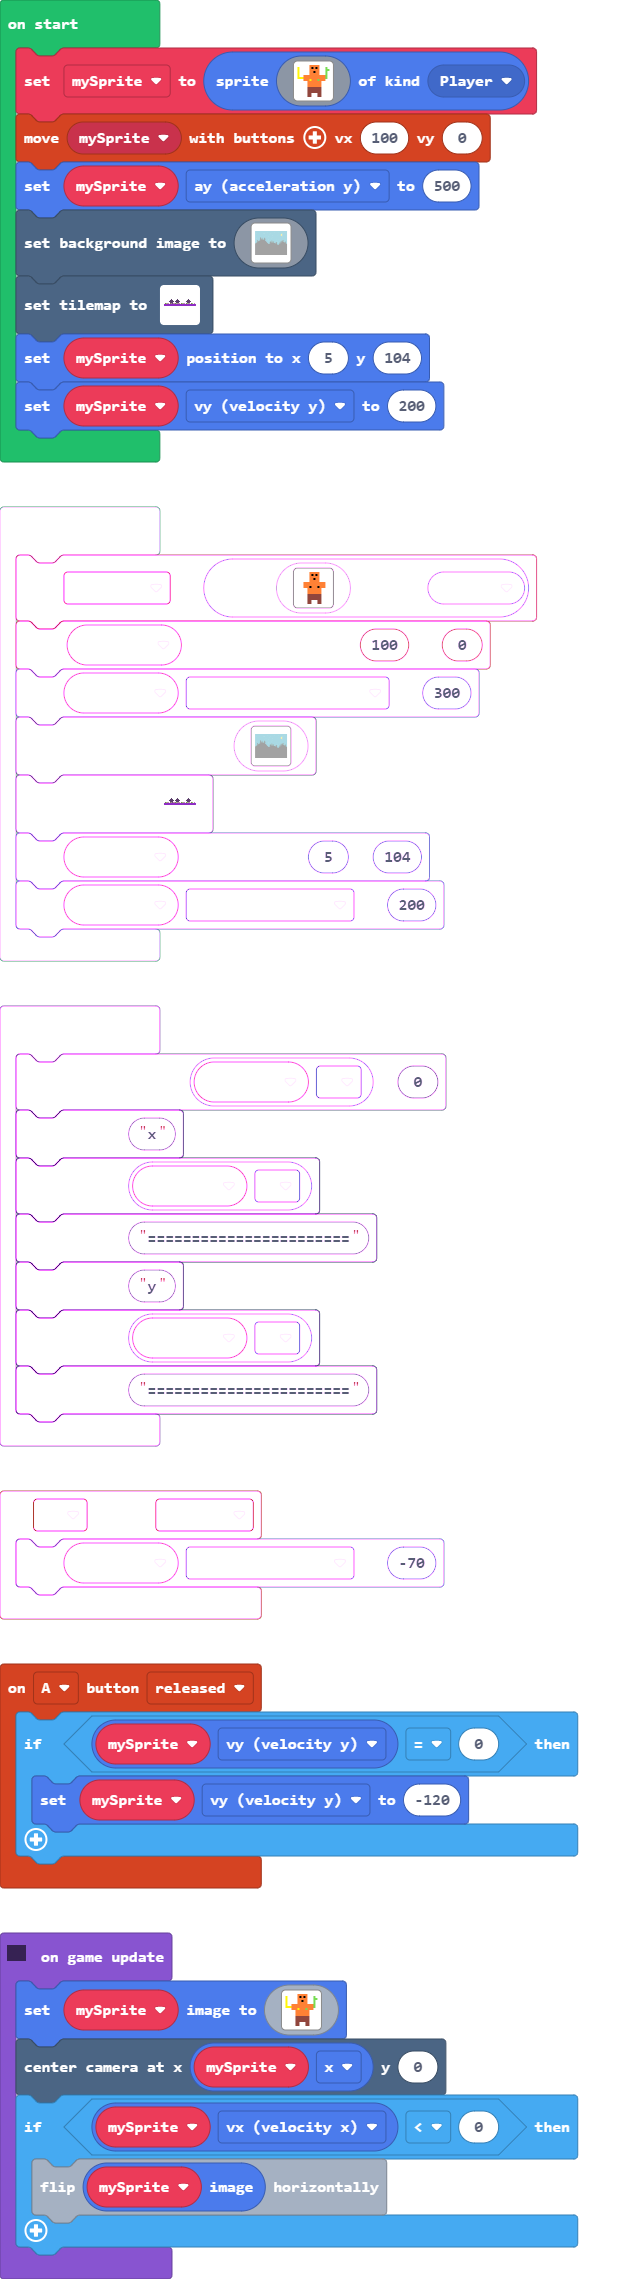
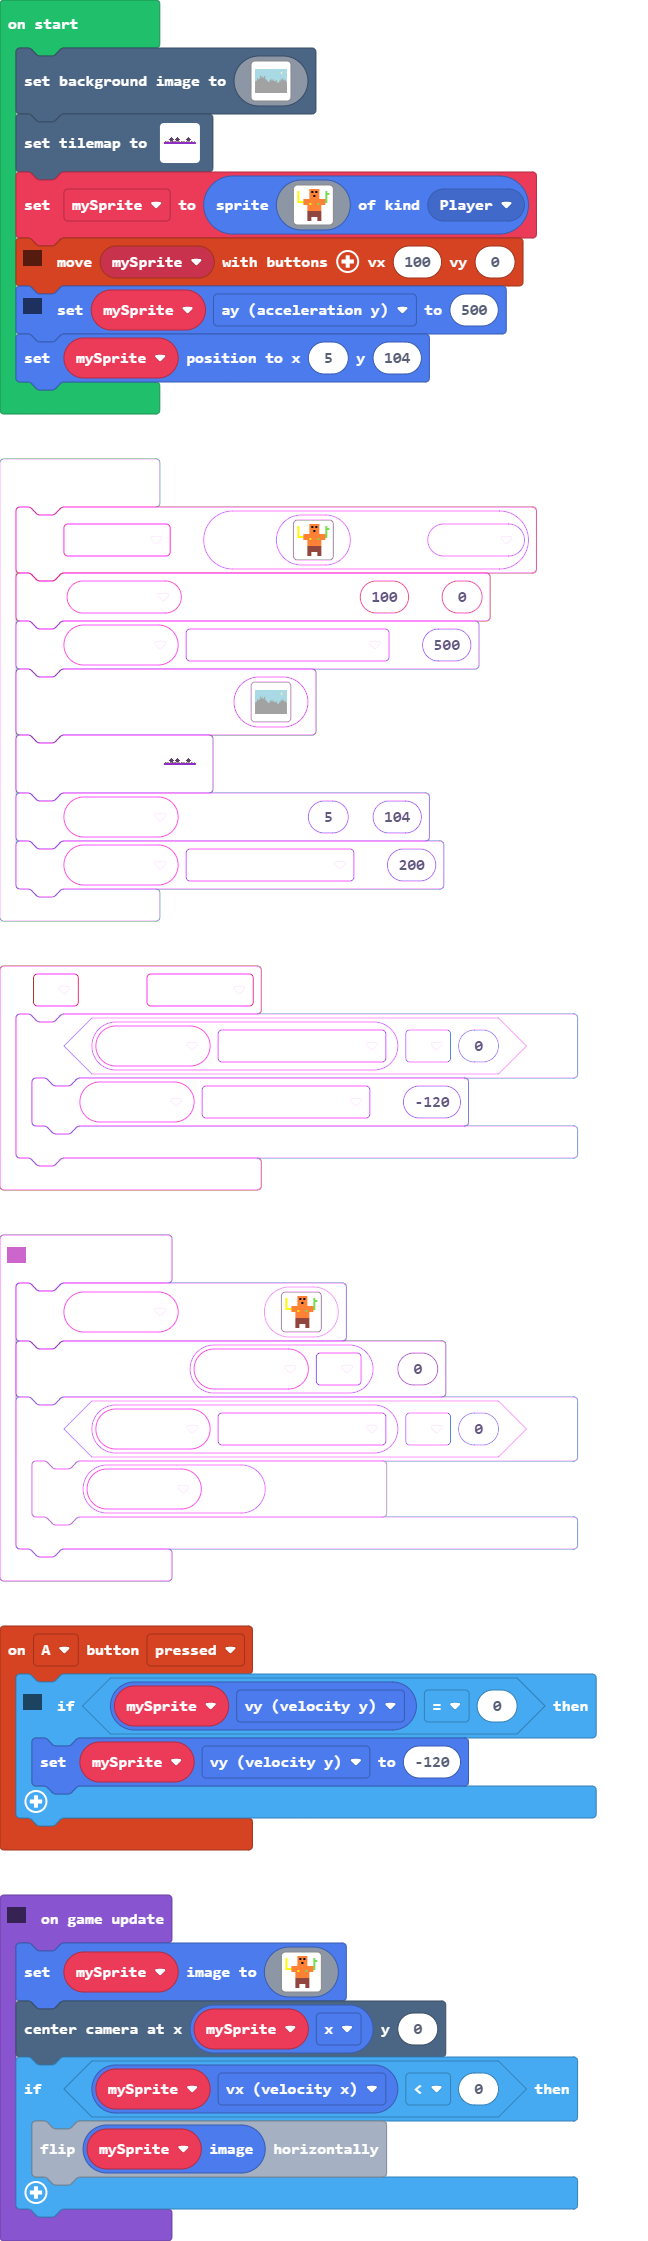
Update pxt.json, main.blocks, main.ts

Changed region(s): [[0.0, 0.0, 0.9349, 1.0]]

diff --git a/main.ts b/main.ts
@@ -1,29 +1,10 @@
-controller.A.onEvent(ControllerButtonEvent.Released, function () {
+controller.A.onEvent(ControllerButtonEvent.Pressed, function () {
+    // if character is stand on the platform or ground can jump
     if (mySprite.vy == 0) {
         mySprite.vy = -120
     }
 })
 let mySprite: Sprite = null
-mySprite = sprites.create(img`
-    . . . . . . 4 4 4 4 4 . . . . . 
-    5 . . . . . 4 f 4 f 4 . . . 7 . 
-    5 . . . . . 4 4 4 4 4 . . . 7 7 
-    5 . . . . . 4 4 f 4 4 . . . 7 . 
-    5 . . . . . 4 4 4 4 4 . . . 7 . 
-    5 . . 4 4 4 4 4 4 4 4 4 4 4 7 . 
-    5 5 5 4 4 4 4 4 4 4 4 4 4 4 7 . 
-    . . . 4 4 4 5 4 4 4 7 4 4 4 . . 
-    . . . . . 4 4 4 4 4 4 4 . . . . 
-    . . . . . 4 4 4 4 4 4 4 . . . . 
-    . . . . . 4 4 4 4 4 4 4 . . . . 
-    . . . . . e e e e e e e . . . . 
-    . . . . . e e e e e e e . . . . 
-    . . . . . e e e e e e e . . . . 
-    . . . . . e e . . . e e . . . . 
-    . . . . . e e . . . e e . . . . 
-    `, SpriteKind.Player)
-controller.moveSprite(mySprite, 100, 0)
-mySprite.ay = 500
 scene.setBackgroundImage(img`
     6666666666666666666666666666666666666666666666666666666666666666666666666666666666666666666666666666666666666666666666666666666666666666666666666666666666666666
     6666666666666666666666666666666666666666666666666666666666666666666666666666666666666666666666666666666666666666666666666666666666666666666666666666666666666666
@@ -147,15 +128,30 @@ scene.setBackgroundImage(img`
     ffffffffffffffffffffffffffffffffffffffffffffffffffffffffffffffffffffffffffffffffffffffffffffffffffffffffffffffffffffffffffffffffffffffffffffffffffffffffffffffff
     `)
 tiles.setTilemap(tilemap`level_0`)
+mySprite = sprites.create(img`
+    . . . . . . 4 4 4 4 4 . . . . . 
+    5 . . . . . 4 f 4 f 4 . . . 7 . 
+    5 . . . . . 4 4 4 4 4 . . . 7 7 
+    5 . . . . . 4 4 f 4 4 . . . 7 . 
+    5 . . . . . 4 4 4 4 4 . . . 7 . 
+    5 . . 4 4 4 4 4 4 4 4 4 4 4 7 . 
+    5 5 5 4 4 4 4 4 4 4 4 4 4 4 7 . 
+    . . . 4 4 4 5 4 4 4 7 4 4 4 . . 
+    . . . . . 4 4 4 4 4 4 4 . . . . 
+    . . . . . 4 4 4 4 4 4 4 . . . . 
+    . . . . . 4 4 4 4 4 4 4 . . . . 
+    . . . . . e e e e e e e . . . . 
+    . . . . . e e e e e e e . . . . 
+    . . . . . e e e e e e e . . . . 
+    . . . . . e e . . . e e . . . . 
+    . . . . . e e . . . e e . . . . 
+    `, SpriteKind.Player)
+// controll main character
+controller.moveSprite(mySprite, 100, 0)
+// gravity in the game
+mySprite.ay = 500
 mySprite.setPosition(5, 104)
-mySprite.vy = 200
-// console.log("x")
-// console.log(mySprite.x)
-// console.log("=======================")
-// console.log("y")
-// console.log(mySprite.y)
-// console.log("=======================")
-
+// updating game
 game.onUpdate(function () {
     mySprite.setImage(img`
         . . . . . . 4 4 4 4 4 . . . . . 
